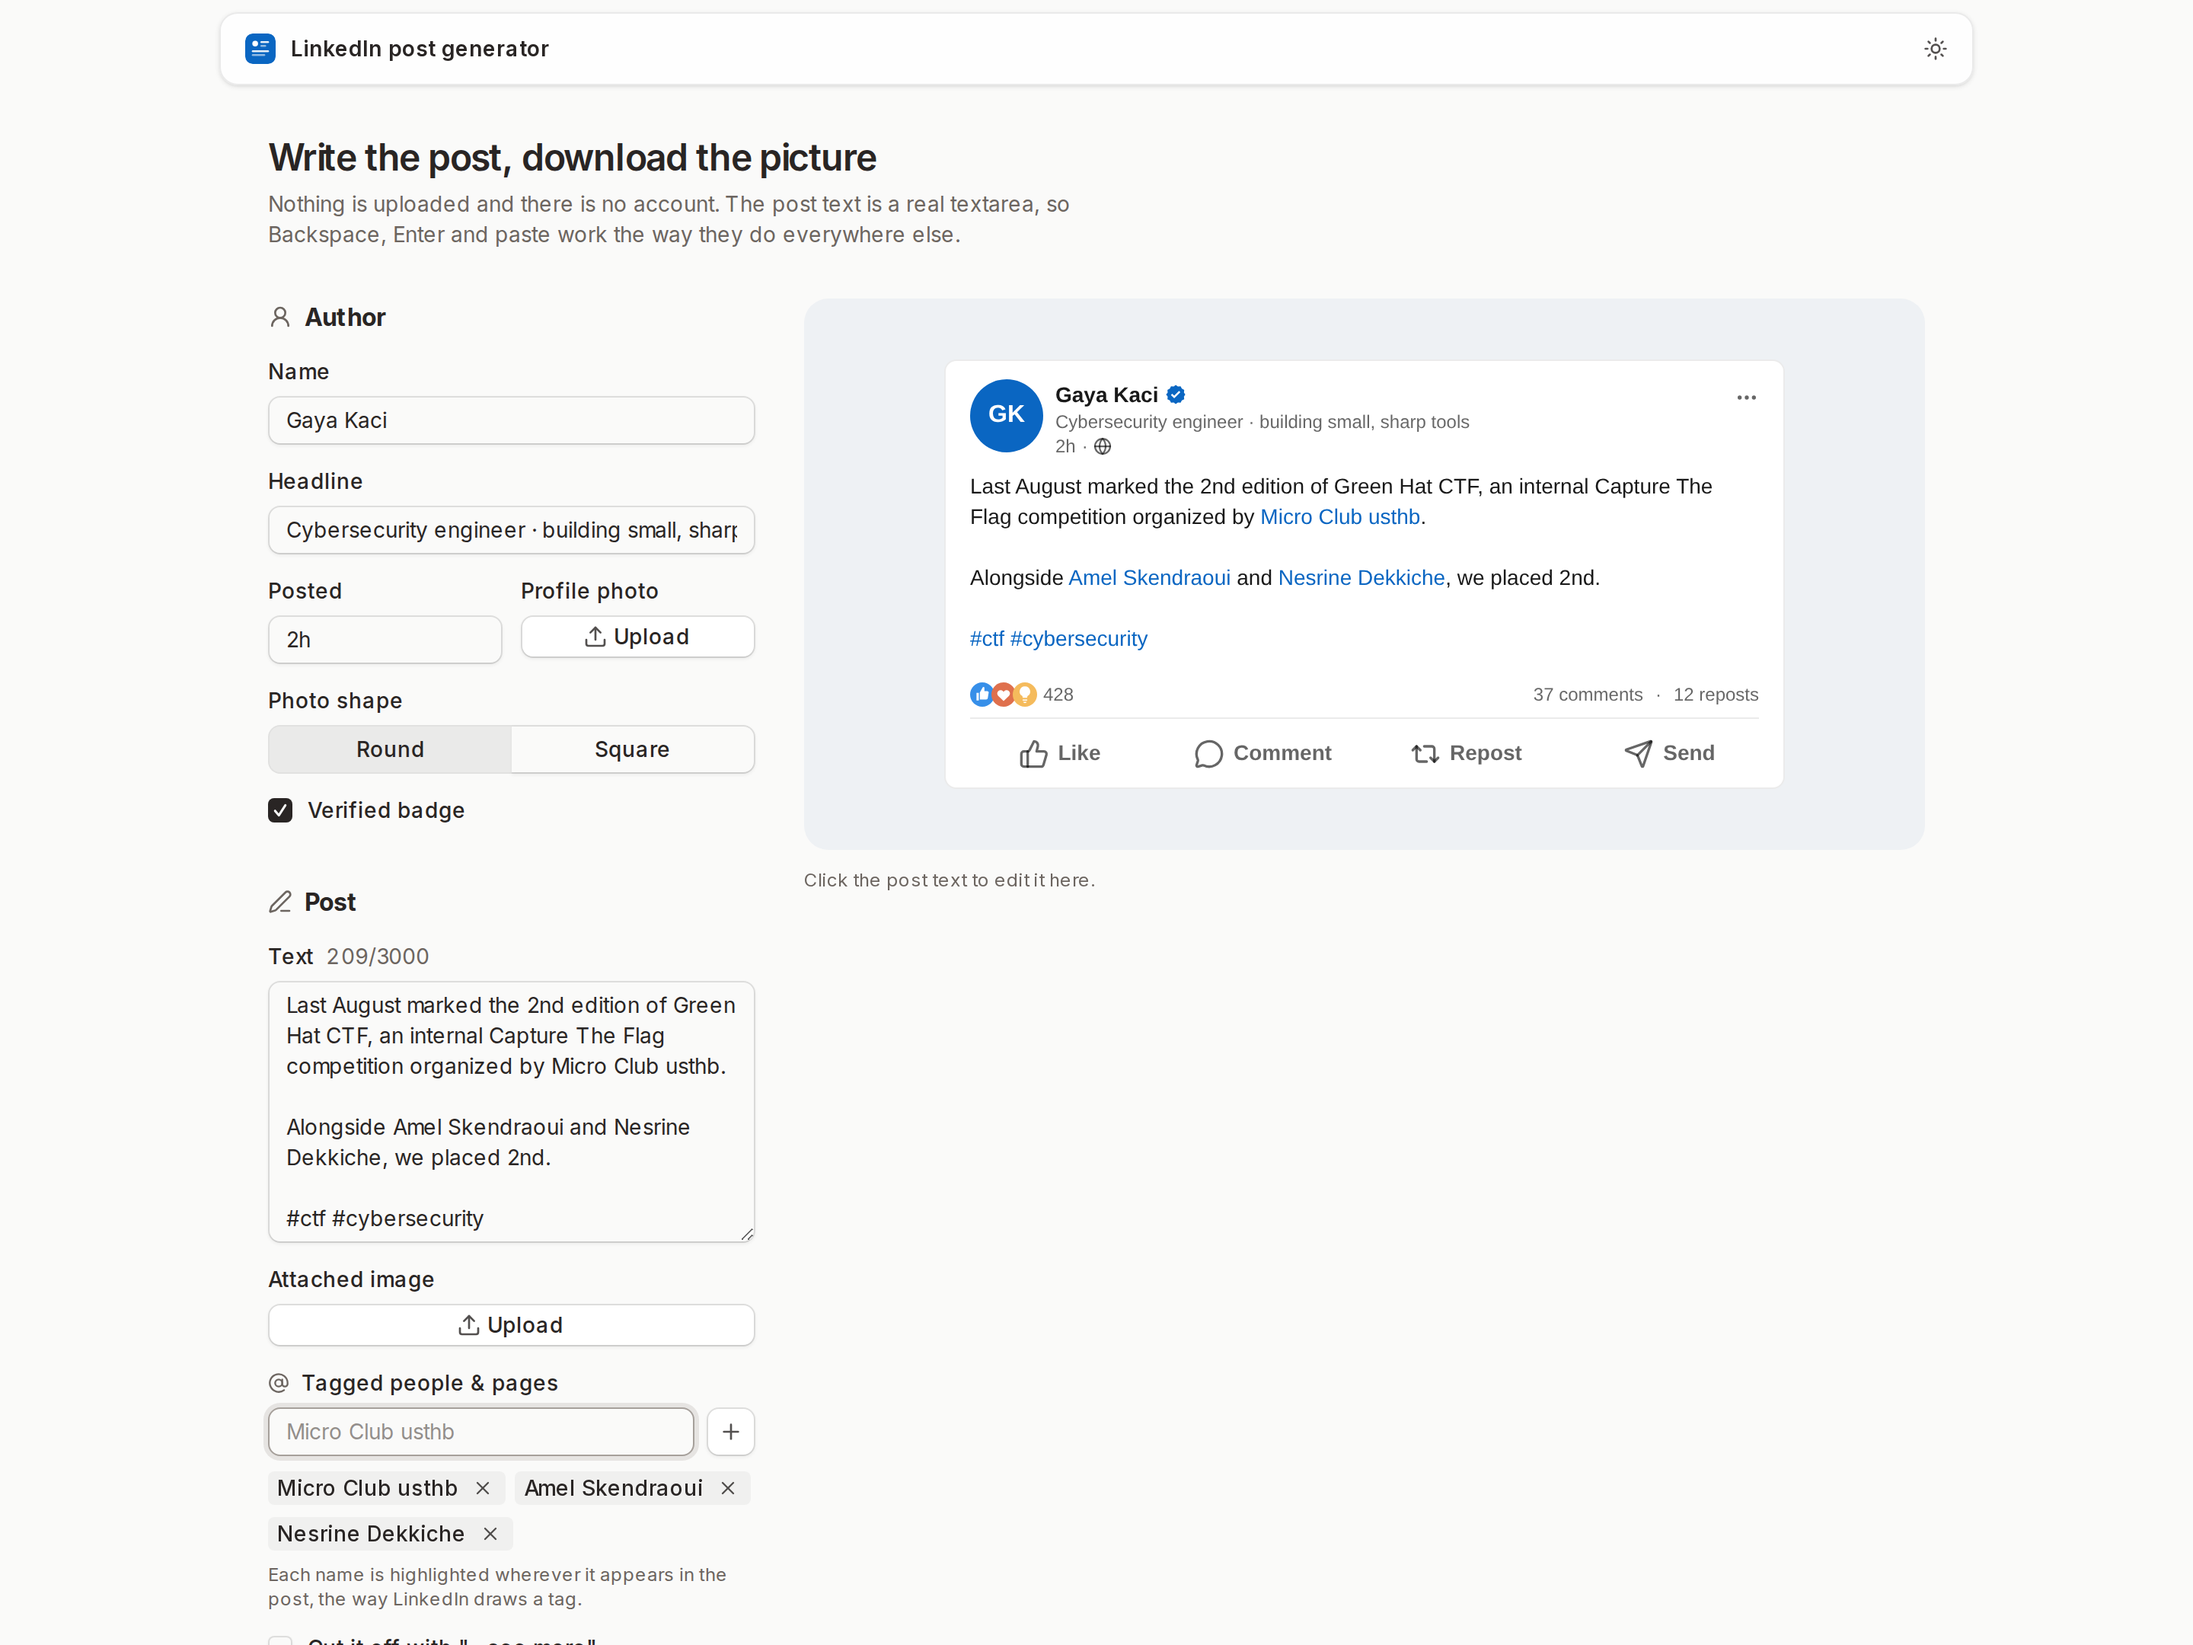
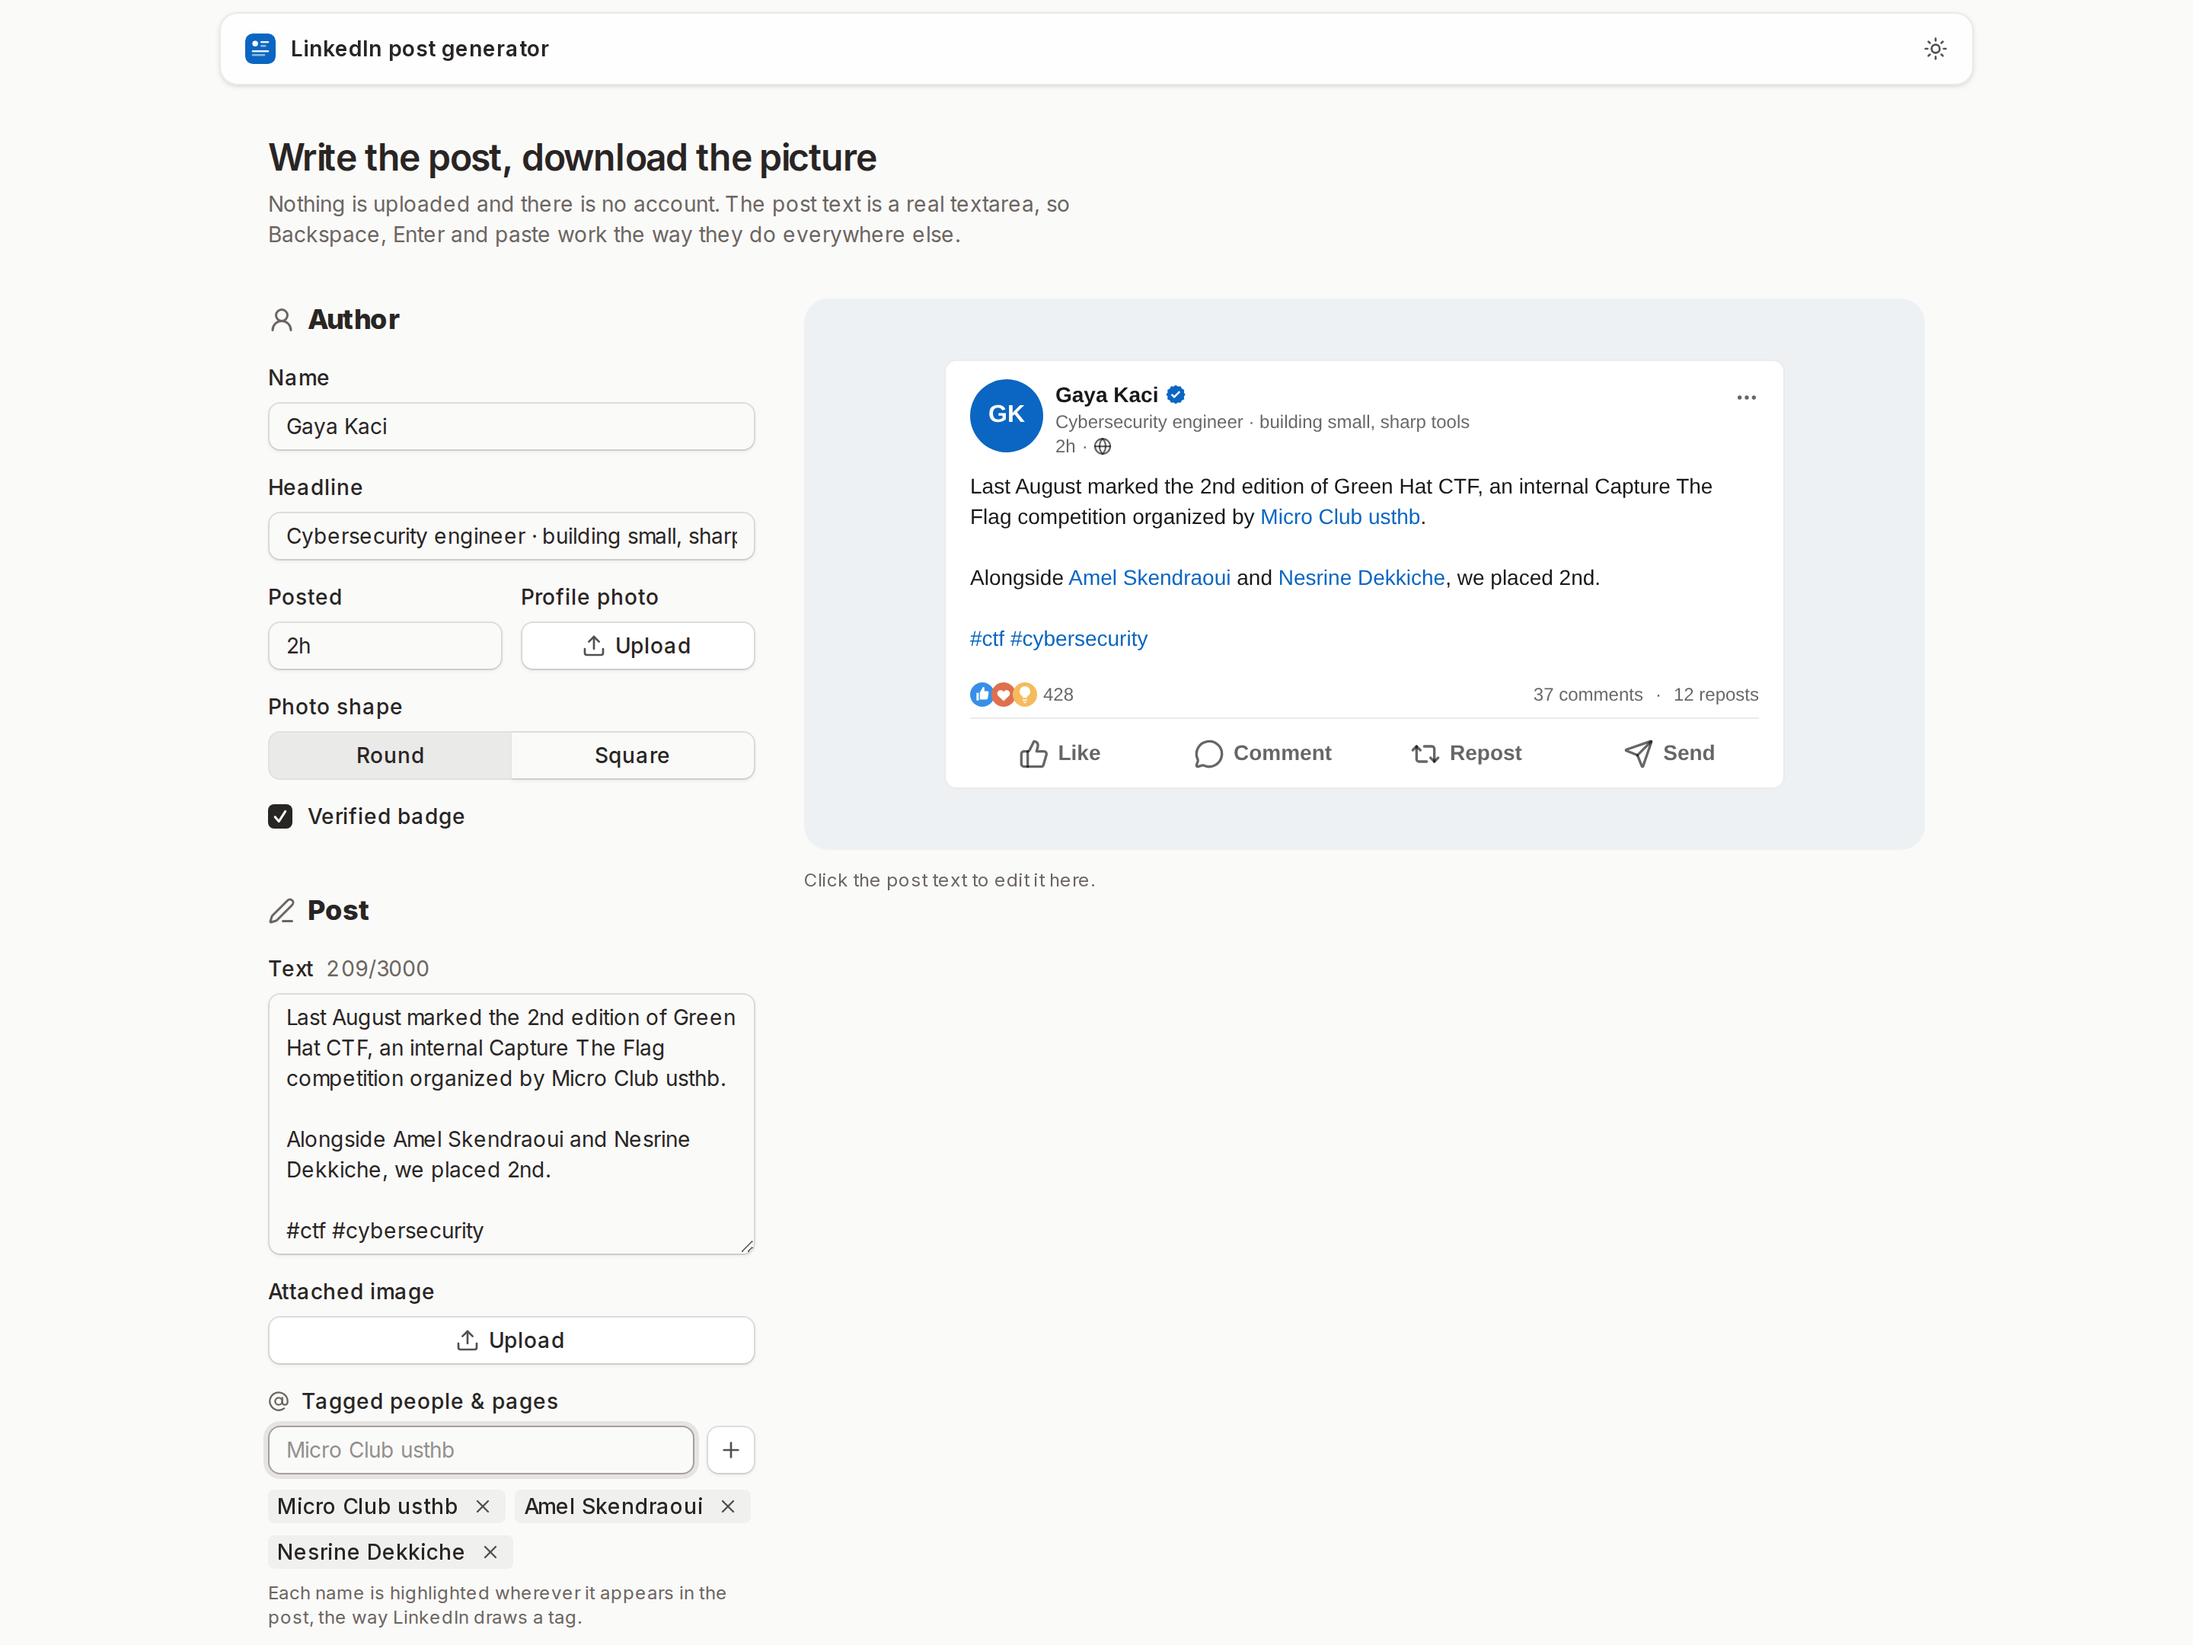
fix: align control heights, enlarge section titles, show the see more link while editing

Changed region(s): [[0.125, 0.5273, 0.3438, 1.0], [0.125, 0.1861, 0.3438, 0.4963], [0.25, 0.4343, 0.3125, 0.4653]]

diff --git a/app/page.tsx b/app/page.tsx
@@ -156,8 +156,8 @@ export default function Page() {
       <div className="grid gap-8 lg:grid-cols-[minmax(0,20rem)_minmax(0,1fr)]">
         <form className="order-2 flex min-w-0 flex-col gap-10 lg:order-1" onSubmit={(e) => e.preventDefault()}>
           <section className="flex flex-col gap-4">
-            <h2 className="flex items-center gap-2 font-bold text-base tracking-tight">
-              <UserRound className="size-4 text-muted-foreground" />
+            <h2 className="flex items-center gap-2 font-extrabold text-lg tracking-tight">
+              <UserRound className="size-4.5 text-muted-foreground" />
               Author
             </h2>
             <Field>
@@ -202,8 +202,8 @@ export default function Page() {
           </section>
 
           <section className="flex flex-col gap-4">
-            <h2 className="flex items-center gap-2 font-bold text-base tracking-tight">
-              <PenLine className="size-4 text-muted-foreground" />
+            <h2 className="flex items-center gap-2 font-extrabold text-lg tracking-tight">
+              <PenLine className="size-4.5 text-muted-foreground" />
               Post
             </h2>
             <Field>
@@ -241,8 +241,8 @@ export default function Page() {
           </section>
 
           <section className="flex flex-col gap-4">
-            <h2 className="flex items-center gap-2 font-bold text-base tracking-tight">
-              <ChartNoAxesColumn className="size-4 text-muted-foreground" />
+            <h2 className="flex items-center gap-2 font-extrabold text-lg tracking-tight">
+              <ChartNoAxesColumn className="size-4.5 text-muted-foreground" />
               Engagement
             </h2>
             <div className="grid grid-cols-3 gap-3">
@@ -262,8 +262,8 @@ export default function Page() {
           </section>
 
           <section className="flex flex-col gap-4">
-            <h2 className="flex items-center gap-2 font-bold text-base tracking-tight">
-              <ImageDown className="size-4 text-muted-foreground" />
+            <h2 className="flex items-center gap-2 font-extrabold text-lg tracking-tight">
+              <ImageDown className="size-4.5 text-muted-foreground" />
               Export
             </h2>
             <Field>
@@ -485,12 +485,12 @@ function FilePicker({
           e.target.value = "";
         }}
       />
-      <Button className="flex-1" variant="outline" size="sm" onClick={() => ref.current?.click()}>
+      <Button className="flex-1" variant="outline" onClick={() => ref.current?.click()}>
         <Upload />
         {has ? "Replace" : "Upload"}
       </Button>
       {has ? (
-        <Button variant="ghost" size="icon-sm" aria-label={`Remove ${label}`} onClick={onClear}>
+        <Button variant="ghost" size="icon" aria-label={`Remove ${label}`} onClick={onClear}>
           <X />
         </Button>
       ) : null}

diff --git a/app/components/PostCard.tsx b/app/components/PostCard.tsx
@@ -88,7 +88,7 @@ export function PostCard({ post, mode, maxLength, onBodyChange }: Props) {
             <Highlighted text={post.body} mentions={post.mentions} />
           </p>
         )}
-        {post.clamp && mode === "static" ? (
+        {post.clamp ? (
           <button
             type="button"
             className="mt-0.5 text-[14px]"
